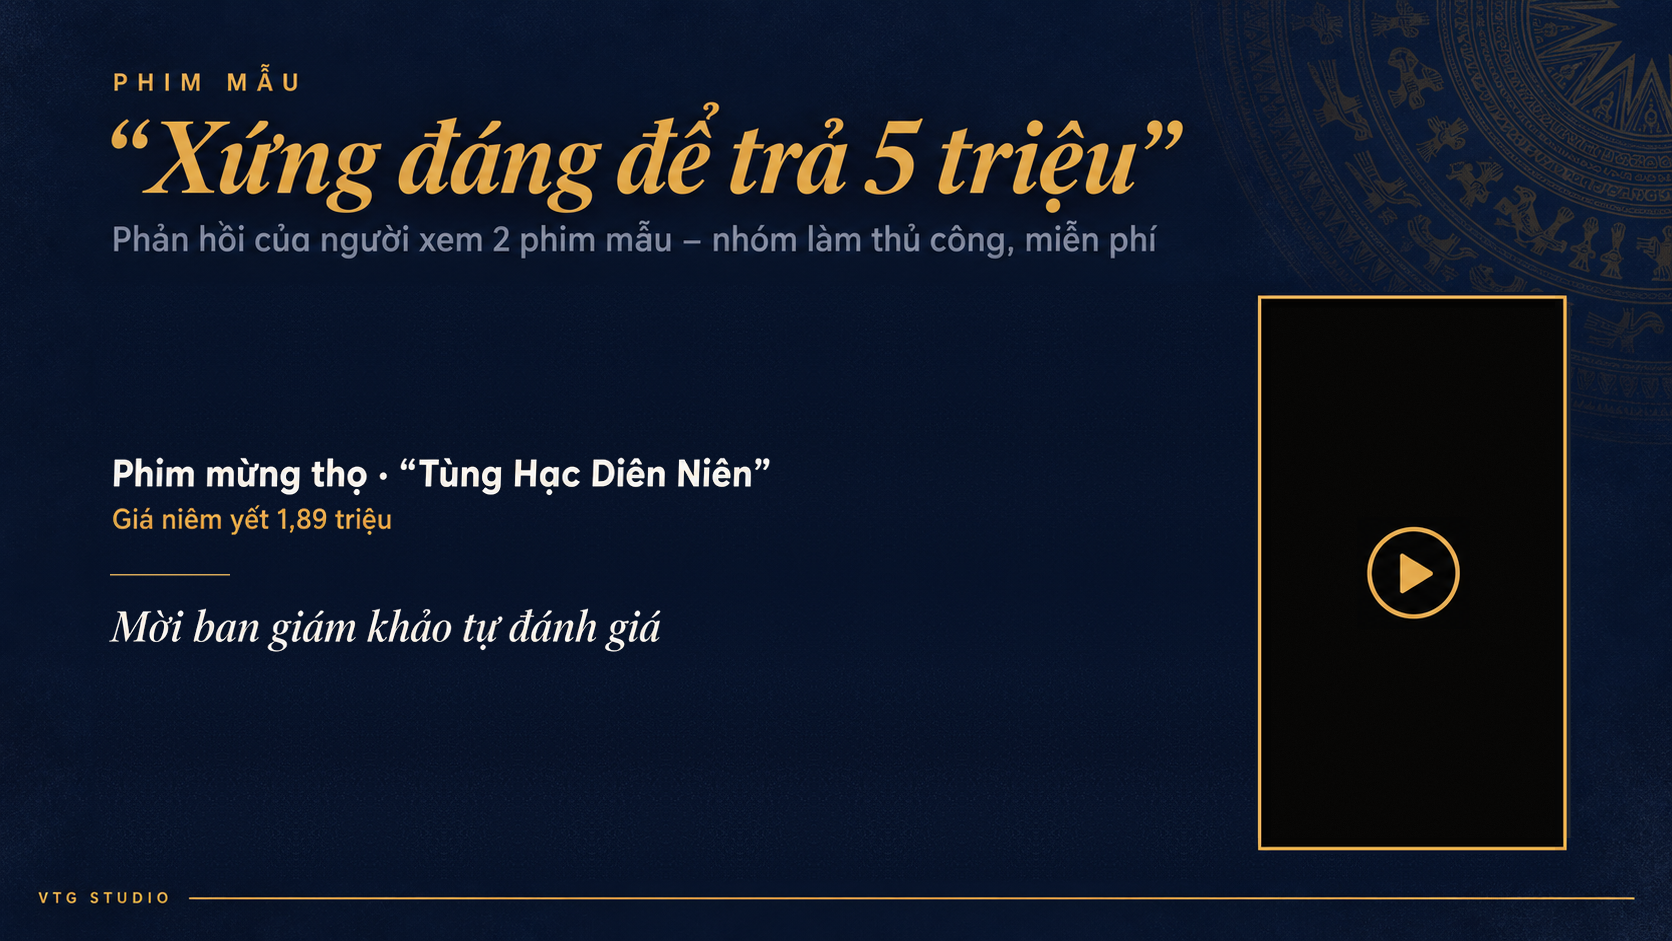
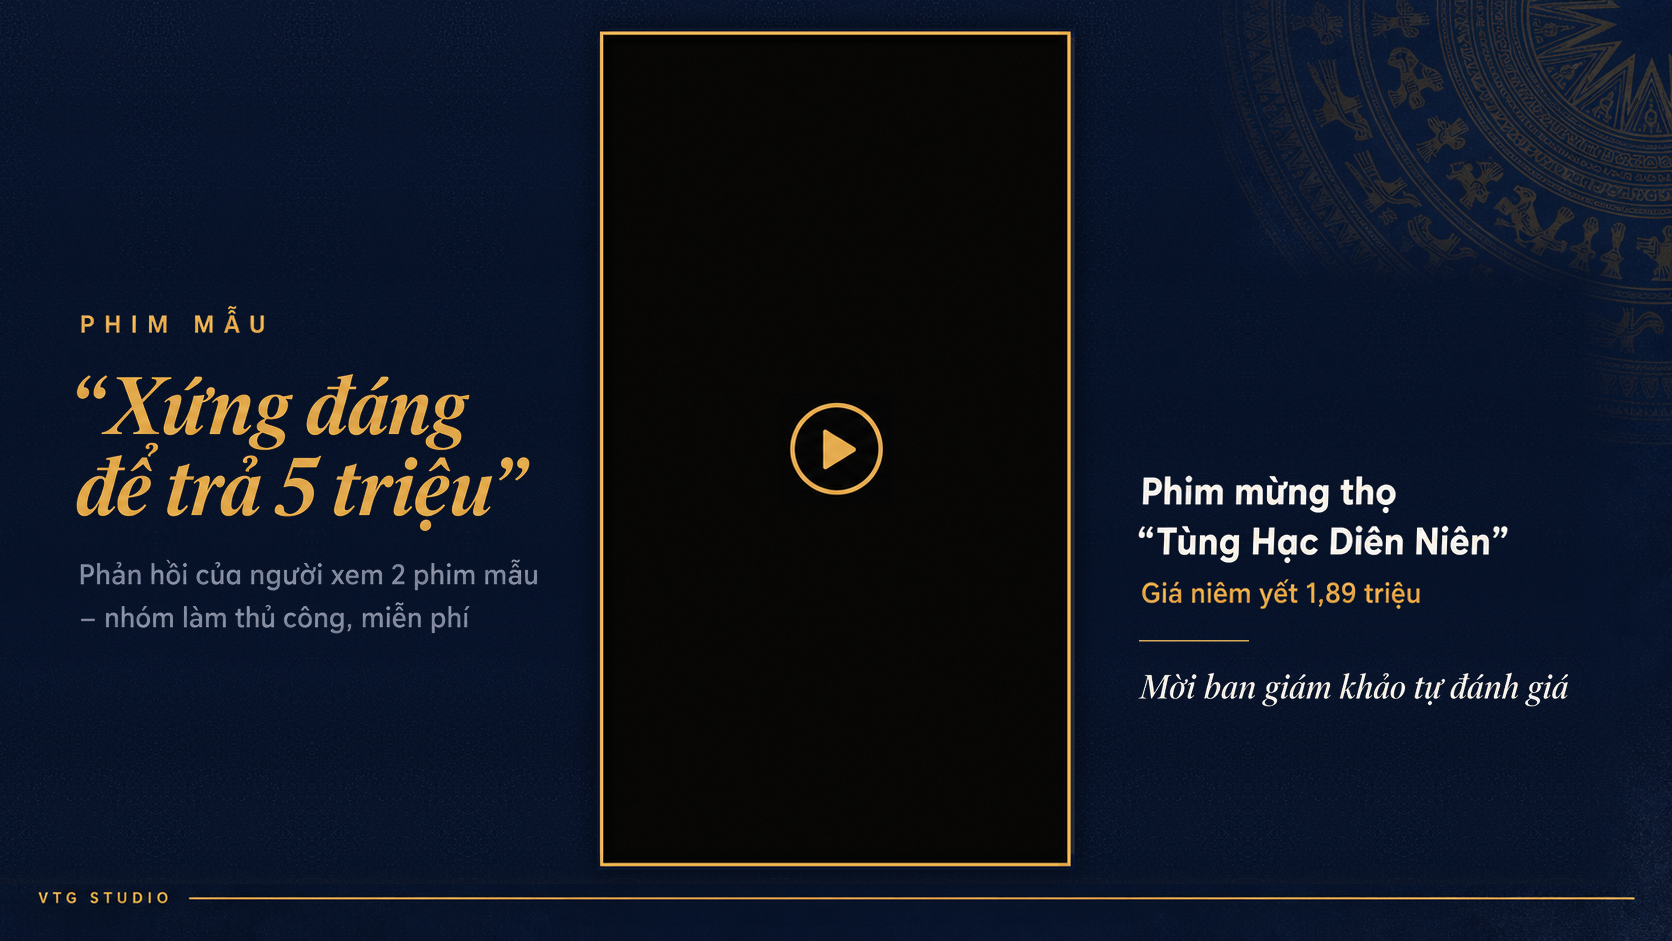
Slide 4: khung phim mừng thọ lớn ở chính giữa
- Bố cục 3 cột: tiêu đề bên trái, khung dọc 9:16 cao gần hết slide ở giữa, tên phim và giá bên phải
- Hoa văn trống đồng góc phải mờ dần vào nền

diff --git a/index.html b/index.html
@@ -107,12 +107,12 @@ const SLIDES = ["img/slide01.jpg", "img/slide02.jpg", "img/slide03.jpg", "img/sl
 /* Ảnh nhỏ cho nền mờ và lưới xem nhanh; ảnh nét cao chỉ tải khi cần */
 const THUMBS = SLIDES.map(s => s.replace('img/', 'img/thumb/').replace(/\.png$/, '.jpg'));
 /* Mã phiên bản: đổi mỗi lần thay ảnh để trình duyệt không dùng bản cũ */
-const V = '?v=20261009a';
+const V = '?v=20261009b';
 for (let i = 0; i < SLIDES.length; i++) { SLIDES[i] += V; THUMBS[i] += V; }
 /* Phim thật cho khung dọc 9:16 ở slide 4 — đặt file vào thư mục video/ với đúng tên dưới đây */
 const VIDEOS = {
   4: [
-    { src: 'video/phim-mung-tho.mp4', label: 'Phim mừng thọ', box: [75.359, 31.562, 18.301, 58.661] }
+    { src: 'video/phim-mung-tho.mp4', label: 'Phim mừng thọ', box: [36.005, 3.507, 27.99, 88.417] }
   ]
 };
 
